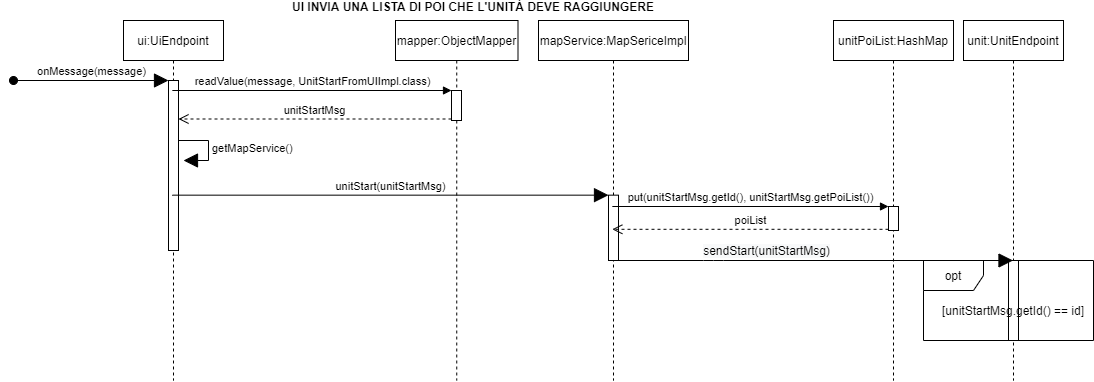
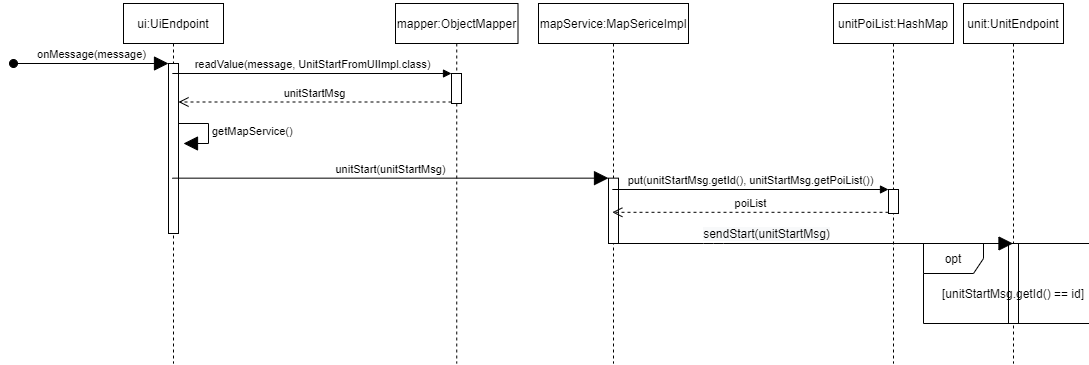
fix immagini

diff --git a/esterni/allegato_tecnico/res/sez3_arch_server.tex b/esterni/allegato_tecnico/res/sez3_arch_server.tex
@@ -21,7 +21,7 @@ Ogni messaggio viene riferito tramite la propria interfaccia in modo da slegare 
 \begin{landscape}
     \begin{figure}[H]
         \centering
-        \includegraphics[width=26cm]{img/server_from_to_ui.png}
+        \includegraphics[width=24cm]{img/server_from_to_ui.png}
         \caption{Server - Messaggi da e per l'interfaccia}
     \end{figure}
 \end{landscape}
@@ -63,7 +63,7 @@ I dati che vengono immagazzinati nei file \glock{SQLite} possiedono la seguente 
 Il seguente diagramma rappresenta il caso in cui l'interfaccia grafica invii al server una lista di \glock{POI}, che l'unità deve raggiungere.
 \begin{figure}[H]
 	\centering
-	\includegraphics[width=19cm]{img/server_seq1.png}
+	\includegraphics[width=16cm]{img/server_seq1.png}
 	\caption{Server - UI invia una lista di \glock{POI} che l'unità deve raggiungere}
 \end{figure}
 
@@ -71,13 +71,13 @@ Il seguente diagramma rappresenta il caso in cui l'interfaccia grafica invii al 
 Il seguente diagramma rappresenta il caso in cui un utente esegua il login dall'interfaccia grafica.
 \begin{figure}[H]
 	\centering
-	\includegraphics[width=19cm]{img/server_seq2.png}
+	\includegraphics[width=16cm]{img/server_seq2.png}
 	\caption{Server - Richiesta di login da parte della UI}
 \end{figure}
 
 Il seguente diagramma rappresenta il caso in cui un utente elimini un'unità registrata.
 \begin{figure}[H]
 	\centering
-	\includegraphics[width=19cm]{img/server_seq3.png}
+	\includegraphics[width=16cm]{img/server_seq3.png}
 	\caption{Server - UI richiede eliminazione unità}
 \end{figure}
